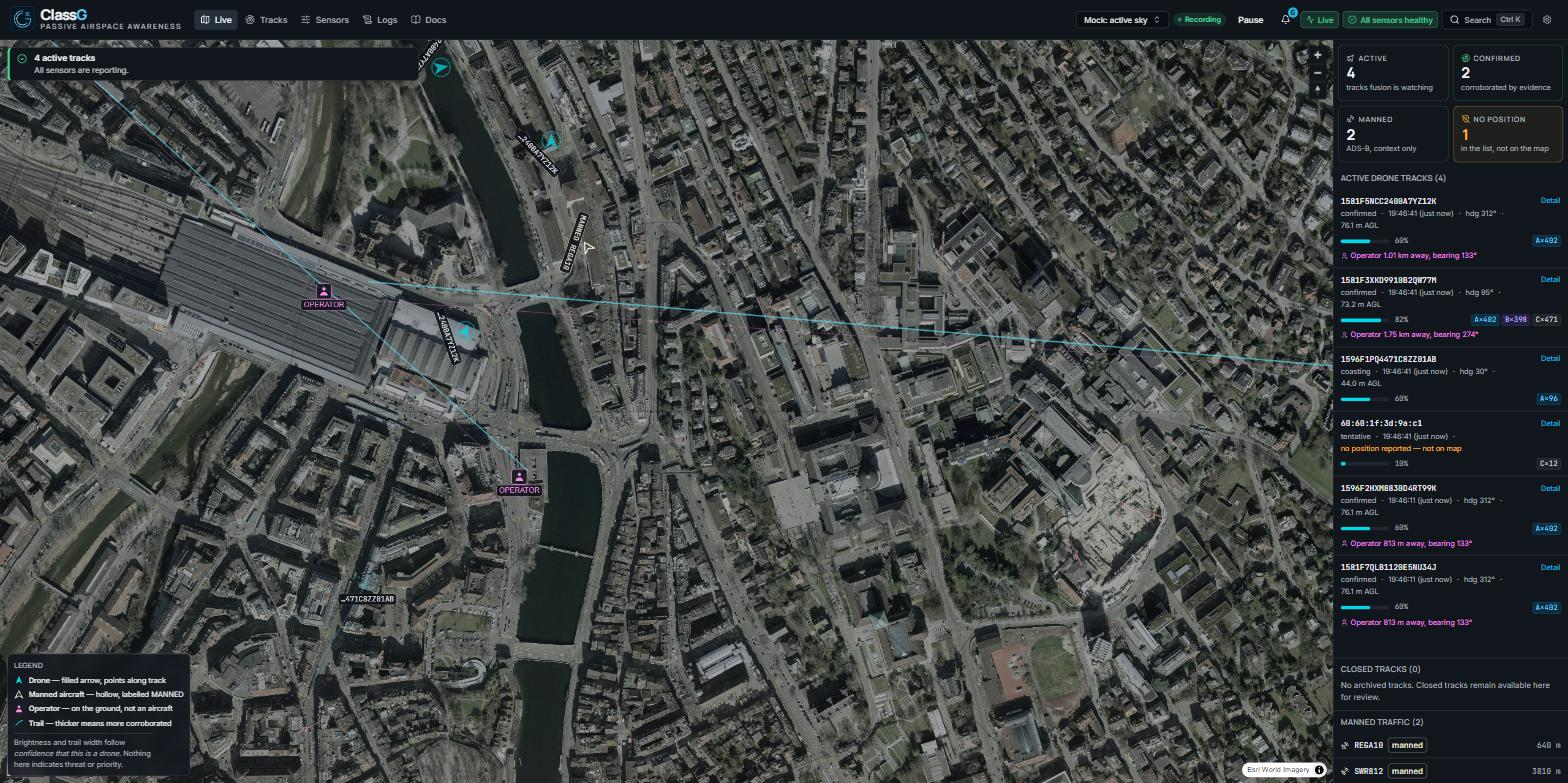
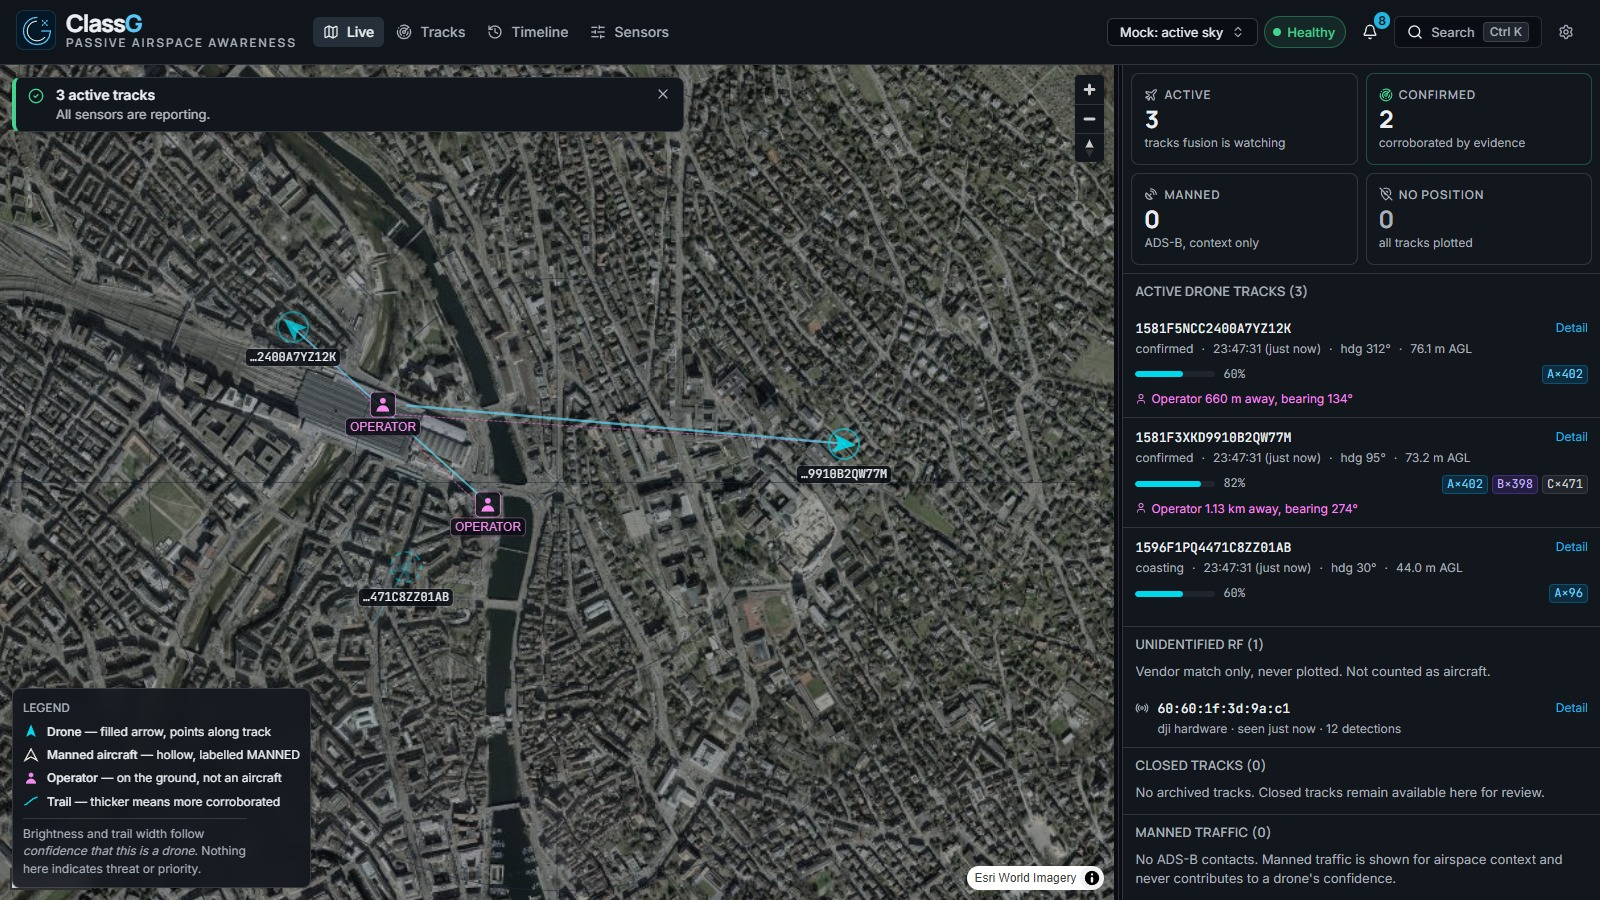
Regenerate the README screenshot and add a mobile one
The desktop screenshot was stale (pre-redesign header/nav). Both are
captured against the "active sky" mock scenario via a scripted headless
capture rather than by hand, so they're reproducible.

diff --git a/README.md b/README.md
@@ -19,8 +19,13 @@ is a design constraint, not a disclaimer.
 
 ![ClassG operator console — live map with active drone tracks, manned traffic, and a per-track confidence/evidence list](docs/assets/screenshot.jpg)
 
+<img src="docs/assets/screenshot-mobile.jpg" alt="ClassG operator console on a phone — the same live map and track list collapsed into a single-column, bottom-nav layout" width="280" align="right">
+
 *The operator console, shown here against the "active sky" mock scenario — see
-[Getting started](#getting-started) to run it yourself without any hardware.*
+[Getting started](#getting-started) to run it yourself without any hardware. The mobile layout
+(right) collapses the same map and track list behind a bottom nav.*
+
+<br clear="right">
 
 ## Contents
 
